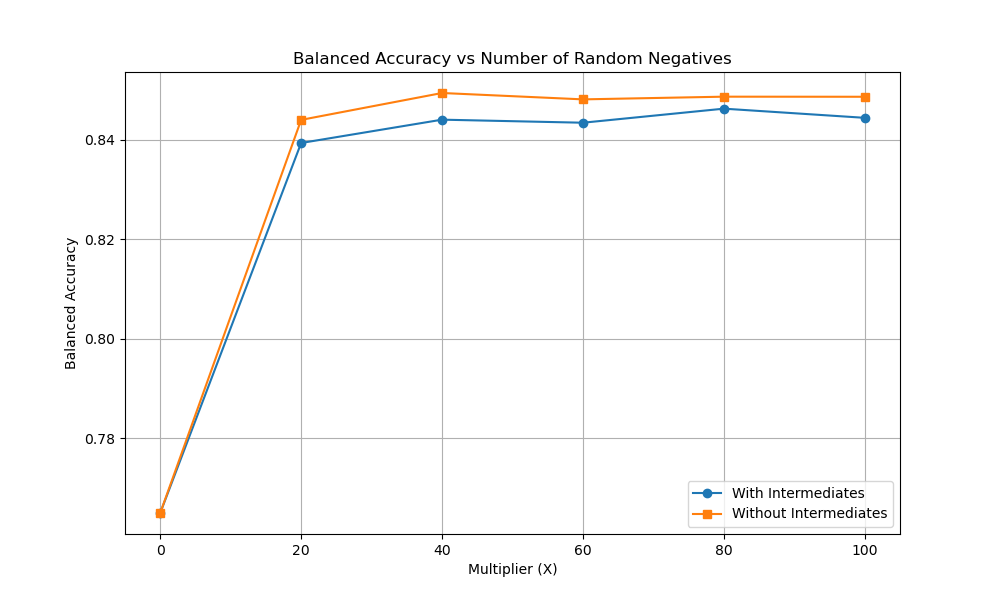
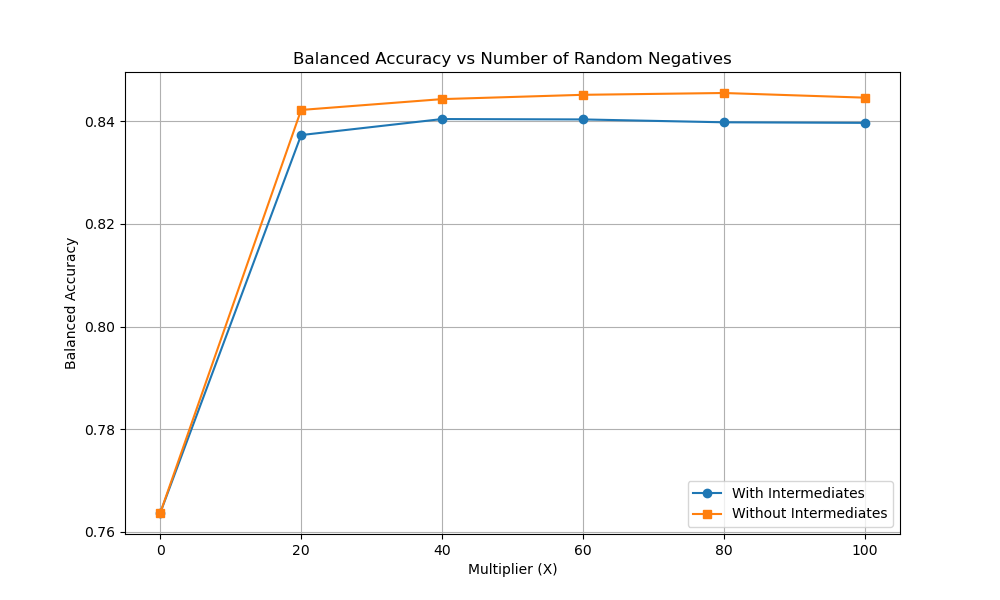
negative_sampling_study now splits benchmark and test/train based only on the cscids

diff --git a/scripts/negative_sampling_study.py b/scripts/negative_sampling_study.py
@@ -12,8 +12,9 @@ from sklearn.metrics import balanced_accuracy_score
 
 sys.path.append(str(Path(__file__).parent.parent))
 from src.data import read_data
-from src.utils import preprocess, train_and_tune_model
+from src.utils import preprocess, preprocess_cscid, train_and_tune_model, setup_paths
 import pandas as pd
+from sklearn.model_selection import train_test_split
 
 logging.basicConfig(level=logging.INFO, format='%(asctime)s - %(levelname)s - %(message)s')
 
@@ -39,16 +40,30 @@ def downsample_negatives(df_pos, df_neg, intermediates=True, multiplier=100):
     # combine clear negatives with sampled negatives
     return pd.concat([clear_negatives, sampled_negatives])
 
-def train_model(experiment_name, multiplier, intermediates):
+def prepare_data(df_full):
     separation_thresholds = {'0-3': 1.3, '3-6': 1.3, '6+': 2.2}
-    range_offaxis = '0-3'  # as per comment, we're assuming range 0-3
+    range_offaxis = '0-3'  # we're assuming range 0-3
 
     results = read_data(separation_thresholds, folder='full_negatives', suffix='')
     df_pos = results[range_offaxis]['df_pos']
     df_neg = results[range_offaxis]['df_neg']
 
+    cscids = df_pos.csc21_name.unique()
+    cscids_train, cscids_benchmark = train_test_split(cscids, test_size=0.2, random_state=42, shuffle=True)
+
+    benchmark_set = df_full[df_full['csc21_name'].isin(cscids_benchmark)]
+    benchmark_set['benchmark_label'] = np.where(benchmark_set['match_flag'] == 1, 1, 0)
+
+    df_pos = df_pos[df_pos['csc21_name'].isin(cscids_train)]
+    df_neg = df_neg[df_neg['csc21_name'].isin(cscids_train)]
+
+    return df_pos, df_neg, benchmark_set
+
+def train_model(experiment_name, multiplier, intermediates, df_pos, df_neg, benchmark_set):
+    range_offaxis = '0-3'  # we're assuming range 0-3
+
     df_neg = downsample_negatives(df_pos, df_neg, intermediates, multiplier)
-    X_train, X_test, y_train, y_test, _, _, cat_features, _ = preprocess(df_pos, df_neg, model_type='lgbm')
+    X_train, X_test, y_train, y_test, _, _, cat_features, _ = preprocess_cscid(df_pos, df_neg, model_type='lgbm', test_size=0.2)
 
     model, y_pred, best_params = train_and_tune_model(
         X_train, X_test, y_train, y_test, cat_features, model_type='lgbm', hyperparameter_tuning=False
@@ -59,10 +74,18 @@ def train_model(experiment_name, multiplier, intermediates):
         'y_pred': y_pred,
         'best_params': best_params,
         'X_test': X_test,
-        'y_test': y_test
+        'y_test': y_test,
+        'benchmark_ids': benchmark_set['csc21_name'].tolist()
     }
     model_path = save_model(results_exp, experiment_name, range_offaxis)
     logging.info(f"Model saved to: {model_path}")
+
+    # preprocess the benchmark set with method preprocess
+    benchmark_set = preprocess(benchmark_set, model_type='lgbm')
+
+
+    # apply the model to the benchmark set
+    benchmark_set['predicted_label'] = model.predict(benchmark_set[cat_features])
 
     return balanced_accuracy_score(y_test, y_pred)
 
@@ -82,6 +105,7 @@ def save_model(results, exp_name, range_offaxis):
     
     joblib.dump(results['X_test'], os.path.join(model_path, "X_test.joblib"))
     joblib.dump(results['y_test'], os.path.join(model_path, "y_test.joblib"))
+    joblib.dump(results['benchmark_ids'], os.path.join(model_path, "benchmark_ids.joblib"))
     
     print(f"Model and results saved in: {model_path}")
     return model_path
@@ -99,13 +123,24 @@ def plot_results(multipliers, accuracies_with_int, accuracies_without_int):
     plt.close()
 
 def main(experiment_name):
+    paths = setup_paths()
+    os.makedirs(paths['out_data'], exist_ok=True)
+    full_data_path = os.path.join(paths['out_data'], 'nway_csc21_gaia3_full.parquet')
+    df_full = pd.read_parquet(full_data_path) if full_data_path.endswith('.parquet') else pd.read_csv(full_data_path)
+    print('full data in memory...')
+
     multipliers = [0, 20, 40, 60, 80, 100]
     accuracies_with_int = []
     accuracies_without_int = []
 
+    # prepare data
+    df_pos, df_neg, benchmark_set = prepare_data(df_full)
+    print('data prepared...')
+
+    # train models
     for multiplier in multipliers:
-        acc_with = train_model(f"{experiment_name}_with_int_{multiplier}X", multiplier, True)
-        acc_without = train_model(f"{experiment_name}_without_int_{multiplier}X", multiplier, False)
+        acc_with = train_model(f"{experiment_name}_with_int_{multiplier}X", multiplier, True, df_pos, df_neg, benchmark_set)
+        acc_without = train_model(f"{experiment_name}_without_int_{multiplier}X", multiplier, False, df_pos, df_neg, benchmark_set)
         
         accuracies_with_int.append(acc_with)
         accuracies_without_int.append(acc_without)

diff --git a/src/utils.py b/src/utils.py
@@ -111,6 +111,8 @@ def preprocess(df_pos, df_neg,  normalization_method='none', log_transform=False
     - indices_test: np.array, indices of test samples
     - categorical_features: list, names of categorical features (for LightGBM)
     """
+
+    cscids = df_pos.csc21_name.unique()
     # transform features
     X_pos, cat_features_pos = transform_features(df_pos, log_transform, model_type, feature_names)
     X_neg, cat_features_neg = transform_features(df_neg, log_transform, model_type, feature_names)
@@ -134,6 +136,41 @@ def preprocess(df_pos, df_neg,  normalization_method='none', log_transform=False
     X_train_norm, X_test_norm, scaler = normalize_train_test(X_train, X_test, method=normalization_method, categorical_features=categorical_features)
     
     return X_train_norm, X_test_norm, Y_train, Y_test, indices_train, indices_test, categorical_features, scaler
+
+def preprocess_cscid(df_pos, df_neg, normalization_method='none', log_transform=False, model_type='rf', random_seed=42, test_size=0.3, feature_names=FEATURE_NAMES):
+    # split cscids into train and test sets
+    cscids = df_pos.csc21_name.unique()
+    cscids_train, cscids_test = train_test_split(cscids, test_size=test_size, random_state=random_seed)
+
+    # create train and test dataframes
+    df_pos_train = df_pos[df_pos.csc21_name.isin(cscids_train)]
+    df_pos_test = df_pos[df_pos.csc21_name.isin(cscids_test)]
+    df_neg_train = df_neg[df_neg.csc21_name.isin(cscids_train)]
+    df_neg_test = df_neg[df_neg.csc21_name.isin(cscids_test)]
+
+    # transform features
+    X_pos_train, cat_features_pos = transform_features(df_pos_train, log_transform, model_type, feature_names)
+    X_pos_test, _ = transform_features(df_pos_test, log_transform, model_type, feature_names)
+    X_neg_train, cat_features_neg = transform_features(df_neg_train, log_transform, model_type, feature_names)
+    X_neg_test, _ = transform_features(df_neg_test, log_transform, model_type, feature_names)
+
+    assert cat_features_pos == cat_features_neg, "Categorical features mismatch"
+    categorical_features = cat_features_pos
+
+    # concat X and create Y labels for train and test sets
+    X_train = pd.concat([X_pos_train, X_neg_train], axis=0, ignore_index=True)
+    X_test = pd.concat([X_pos_test, X_neg_test], axis=0, ignore_index=True)
+    Y_train = np.concatenate((np.ones(len(X_pos_train)), np.zeros(len(X_neg_train))))
+    Y_test = np.concatenate((np.ones(len(X_pos_test)), np.zeros(len(X_neg_test))))
+
+    # indices on csc21_name
+    cscids_train = pd.concat([df_pos_train.csc21_name, df_neg_train.csc21_name]).reset_index(drop=True)
+    cscids_test = pd.concat([df_pos_test.csc21_name, df_neg_test.csc21_name]).reset_index(drop=True)
+
+    # normalize
+    X_train_norm, X_test_norm, scaler = normalize_train_test(X_train, X_test, method=normalization_method, categorical_features=categorical_features)
+
+    return X_train_norm, X_test_norm, Y_train, Y_test, cscids_train, cscids_test, categorical_features, scaler
 
 
 
@@ -597,3 +634,10 @@ def remove_duplicate_columns(df):
     df = df.rename(columns=to_rename)
     
     return df
+
+def setup_paths():
+    base_path = os.path.dirname(os.path.dirname(os.path.abspath(__file__)))
+    return {
+        'data': os.path.join(base_path, 'data'),
+        'out_data': os.path.join(base_path, 'out_data')
+    }
